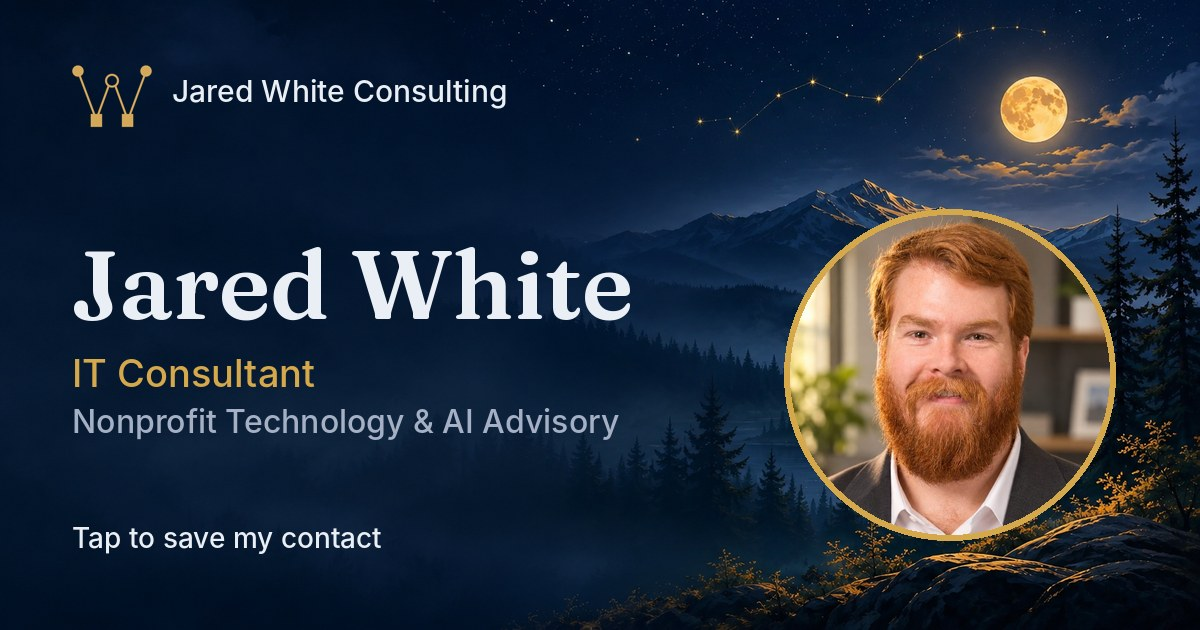
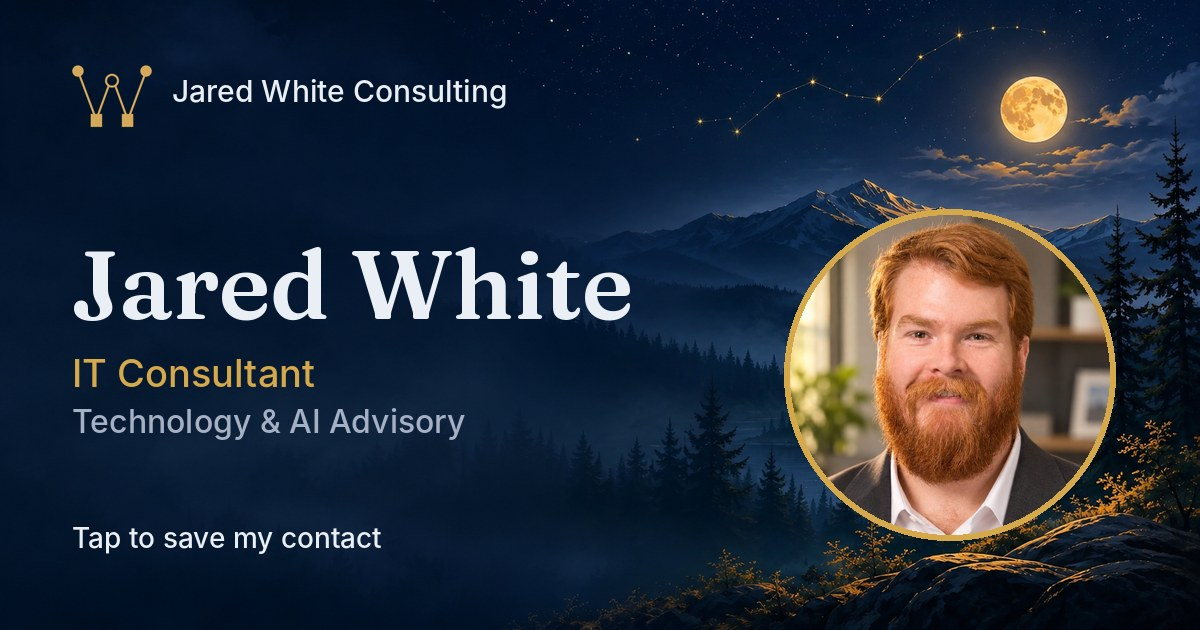
Connect: remove nonprofit from title, vCard and share image
Claude-Session: https://claude.ai/code/session_013tLK7HXDr7Su1BpLbjygVz

Changed region(s): [[0.0617, 0.6333, 0.5242, 0.6937]]

diff --git a/public/index.html b/public/index.html
@@ -9,7 +9,7 @@
 <meta name="theme-color" content="#0B1426">
 <link rel="preconnect" href="https://fonts.googleapis.com"><link rel="preconnect" href="https://fonts.gstatic.com" crossorigin>
 <link href="https://fonts.googleapis.com/css2?family=Fraunces:opsz,wght@9..144,600;9..144,700&family=Inter:wght@400;500;600&display=swap" rel="stylesheet">
-<link rel="stylesheet" href="/assets/site.css?v=26"><meta property="og:type" content="website"><meta property="og:site_name" content="Jared White Consulting"><meta property="og:title" content="Jared White Consulting | AI governance and IT help for small organizations"><meta property="og:description" content="Put AI to work. Stay in control. AI governance, IT packages and free tools for small businesses and nonprofits in Northeast Arkansas."><meta property="og:image" content="https://whiteconsulting.org/assets/img/og-default.jpg"><meta property="og:image:width" content="1200"><meta property="og:image:height" content="630"><meta name="twitter:card" content="summary_large_image"><meta name="twitter:title" content="Jared White Consulting | AI governance and IT help for small organizations"><meta name="twitter:description" content="Put AI to work. Stay in control. AI governance, IT packages and free tools for small businesses and nonprofits in Northeast Arkansas."><meta name="twitter:image" content="https://whiteconsulting.org/assets/img/og-default.jpg"><script type="application/ld+json">{"@context":"https://schema.org","@type":"ProfessionalService","name":"Jared White Consulting","url":"https://whiteconsulting.org","image":"https://whiteconsulting.org/assets/img/og-default.jpg","telephone":"+1-870-215-2008","email":"jared@whiteconsulting.org","description":"AI governance and IT help for small businesses and nonprofits in Northeast Arkansas.","areaServed":{"@type":"AdministrativeArea","name":"Northeast Arkansas"},"founder":{"@type":"Person","name":"Jared White"}}</script>
+<link rel="stylesheet" href="/assets/site.css?v=27"><meta property="og:type" content="website"><meta property="og:site_name" content="Jared White Consulting"><meta property="og:title" content="Jared White Consulting | AI governance and IT help for small organizations"><meta property="og:description" content="Put AI to work. Stay in control. AI governance, IT packages and free tools for small businesses and nonprofits in Northeast Arkansas."><meta property="og:image" content="https://whiteconsulting.org/assets/img/og-default.jpg"><meta property="og:image:width" content="1200"><meta property="og:image:height" content="630"><meta name="twitter:card" content="summary_large_image"><meta name="twitter:title" content="Jared White Consulting | AI governance and IT help for small organizations"><meta name="twitter:description" content="Put AI to work. Stay in control. AI governance, IT packages and free tools for small businesses and nonprofits in Northeast Arkansas."><meta name="twitter:image" content="https://whiteconsulting.org/assets/img/og-default.jpg"><script type="application/ld+json">{"@context":"https://schema.org","@type":"ProfessionalService","name":"Jared White Consulting","url":"https://whiteconsulting.org","image":"https://whiteconsulting.org/assets/img/og-default.jpg","telephone":"+1-870-215-2008","email":"jared@whiteconsulting.org","description":"AI governance and IT help for small businesses and nonprofits in Northeast Arkansas.","areaServed":{"@type":"AdministrativeArea","name":"Northeast Arkansas"},"founder":{"@type":"Person","name":"Jared White"}}</script>
 </head><body>
 <a class="skip" href="#main">Skip to content</a>
 <header class="nav"><div class="wrap">

diff --git a/public/connect/index.html b/public/connect/index.html
@@ -1,9 +1,9 @@
 <!doctype html>
 <html lang="en"><head><meta charset="utf-8"><meta name="viewport" content="width=device-width,initial-scale=1">
-<title>Connect with Jared White</title><meta name="robots" content="noindex, nofollow"><meta property="og:type" content="profile"><meta property="og:title" content="Jared White | IT Consultant, Nonprofit Technology &amp; AI Advisory"><meta property="og:description" content="Tap to save my contact or book a free 20-minute review."><meta property="og:image" content="https://whiteconsulting.org/assets/img/og-connect.jpg"><meta property="og:image:width" content="1200"><meta property="og:image:height" content="630"><meta name="twitter:card" content="summary_large_image"><meta name="twitter:image" content="https://whiteconsulting.org/assets/img/og-connect.jpg">
+<title>Connect with Jared White</title><meta name="robots" content="noindex, nofollow"><meta property="og:type" content="profile"><meta property="og:title" content="Jared White | IT Consultant, Technology &amp; AI Advisory"><meta property="og:description" content="Tap to save my contact or book a free 20-minute review."><meta property="og:image" content="https://whiteconsulting.org/assets/img/og-connect.jpg"><meta property="og:image:width" content="1200"><meta property="og:image:height" content="630"><meta name="twitter:card" content="summary_large_image"><meta name="twitter:image" content="https://whiteconsulting.org/assets/img/og-connect.jpg">
 <link rel="icon" type="image/png" href="/assets/img/favicon.png"><link rel="apple-touch-icon" href="/assets/img/apple-touch-icon.png"><meta name="theme-color" content="#0B1426">
 <link href="https://fonts.googleapis.com/css2?family=Fraunces:opsz,wght@9..144,600;9..144,700&family=Inter:wght@400;500;600&display=swap" rel="stylesheet">
-<link rel="stylesheet" href="/assets/site.css?v=26"></head><body>
+<link rel="stylesheet" href="/assets/site.css?v=27"></head><body>
 <header class="nav"><div class="wrap">
 <a class="brand" href="/"><img src="/assets/img/logo.png" alt="" width="34" height="27"><span>Jared White Consulting</span></a>
 <button class="burger" id="burger" aria-expanded="false" aria-controls="menu">Menu</button>
@@ -12,7 +12,7 @@
 <main class="cx"><div class="top">
 <img src="/assets/img/headshot.jpg" alt="Jared White" width="150" height="150">
 <div class="org">Jared White Consulting</div><h1>Jared White</h1>
-<div class="t">IT Consultant | Nonprofit Technology &amp; AI Advisory</div><hr>
+<div class="t">IT Consultant | Technology &amp; AI Advisory</div><hr>
 <p class="muted" style="max-width:22em;margin:0 auto">Plain-English IT and AI help for small businesses and nonprofits in Northeast Arkansas.</p>
 <a class="btn" href="/jared-white.vcf" download="Jared White.vcf">Save my contact</a></div>
 <div class="row"><a href="tel:+18702152008">Call</a><a href="sms:+18702152008">Text</a></div>

diff --git a/public/ai/index.html b/public/ai/index.html
@@ -9,7 +9,7 @@
 <meta name="theme-color" content="#0B1426">
 <link rel="preconnect" href="https://fonts.googleapis.com"><link rel="preconnect" href="https://fonts.gstatic.com" crossorigin>
 <link href="https://fonts.googleapis.com/css2?family=Fraunces:opsz,wght@9..144,600;9..144,700&family=Inter:wght@400;500;600&display=swap" rel="stylesheet">
-<link rel="stylesheet" href="/assets/site.css?v=26"><meta property="og:type" content="website"><meta property="og:site_name" content="Jared White Consulting"><meta property="og:title" content="AI governance for small organizations | Jared White Consulting"><meta property="og:description" content="Your staff already use AI. Learn what a basic AI policy covers and how Jared White Consulting helps small businesses and nonprofits in Northeast Arkansas."><meta property="og:image" content="https://whiteconsulting.org/assets/img/og-default.jpg"><meta property="og:image:width" content="1200"><meta property="og:image:height" content="630"><meta name="twitter:card" content="summary_large_image"><meta name="twitter:title" content="AI governance for small organizations | Jared White Consulting"><meta name="twitter:description" content="Your staff already use AI. Learn what a basic AI policy covers and how Jared White Consulting helps small businesses and nonprofits in Northeast Arkansas."><meta name="twitter:image" content="https://whiteconsulting.org/assets/img/og-default.jpg">
+<link rel="stylesheet" href="/assets/site.css?v=27"><meta property="og:type" content="website"><meta property="og:site_name" content="Jared White Consulting"><meta property="og:title" content="AI governance for small organizations | Jared White Consulting"><meta property="og:description" content="Your staff already use AI. Learn what a basic AI policy covers and how Jared White Consulting helps small businesses and nonprofits in Northeast Arkansas."><meta property="og:image" content="https://whiteconsulting.org/assets/img/og-default.jpg"><meta property="og:image:width" content="1200"><meta property="og:image:height" content="630"><meta name="twitter:card" content="summary_large_image"><meta name="twitter:title" content="AI governance for small organizations | Jared White Consulting"><meta name="twitter:description" content="Your staff already use AI. Learn what a basic AI policy covers and how Jared White Consulting helps small businesses and nonprofits in Northeast Arkansas."><meta name="twitter:image" content="https://whiteconsulting.org/assets/img/og-default.jpg">
 </head><body>
 <a class="skip" href="#main">Skip to content</a>
 <header class="nav"><div class="wrap">

diff --git a/public/nonprofits/index.html b/public/nonprofits/index.html
@@ -9,7 +9,7 @@
 <meta name="theme-color" content="#0B1426">
 <link rel="preconnect" href="https://fonts.googleapis.com"><link rel="preconnect" href="https://fonts.gstatic.com" crossorigin>
 <link href="https://fonts.googleapis.com/css2?family=Fraunces:opsz,wght@9..144,600;9..144,700&family=Inter:wght@400;500;600&display=swap" rel="stylesheet">
-<link rel="stylesheet" href="/assets/site.css?v=26"><meta property="og:type" content="website"><meta property="og:site_name" content="Jared White Consulting"><meta property="og:title" content="IT help for nonprofits | Jared White Consulting"><meta property="og:description" content="IT consulting for small nonprofits in Northeast Arkansas. Past work with Habitat for Humanity of Greater Jonesboro and Agape House of Paragould."><meta property="og:image" content="https://whiteconsulting.org/assets/img/og-default.jpg"><meta property="og:image:width" content="1200"><meta property="og:image:height" content="630"><meta name="twitter:card" content="summary_large_image"><meta name="twitter:title" content="IT help for nonprofits | Jared White Consulting"><meta name="twitter:description" content="IT consulting for small nonprofits in Northeast Arkansas. Past work with Habitat for Humanity of Greater Jonesboro and Agape House of Paragould."><meta name="twitter:image" content="https://whiteconsulting.org/assets/img/og-default.jpg">
+<link rel="stylesheet" href="/assets/site.css?v=27"><meta property="og:type" content="website"><meta property="og:site_name" content="Jared White Consulting"><meta property="og:title" content="IT help for nonprofits | Jared White Consulting"><meta property="og:description" content="IT consulting for small nonprofits in Northeast Arkansas. Past work with Habitat for Humanity of Greater Jonesboro and Agape House of Paragould."><meta property="og:image" content="https://whiteconsulting.org/assets/img/og-default.jpg"><meta property="og:image:width" content="1200"><meta property="og:image:height" content="630"><meta name="twitter:card" content="summary_large_image"><meta name="twitter:title" content="IT help for nonprofits | Jared White Consulting"><meta name="twitter:description" content="IT consulting for small nonprofits in Northeast Arkansas. Past work with Habitat for Humanity of Greater Jonesboro and Agape House of Paragould."><meta name="twitter:image" content="https://whiteconsulting.org/assets/img/og-default.jpg">
 </head><body>
 <a class="skip" href="#main">Skip to content</a>
 <header class="nav"><div class="wrap">

diff --git a/public/services/index.html b/public/services/index.html
@@ -9,7 +9,7 @@
 <meta name="theme-color" content="#0B1426">
 <link rel="preconnect" href="https://fonts.googleapis.com"><link rel="preconnect" href="https://fonts.gstatic.com" crossorigin>
 <link href="https://fonts.googleapis.com/css2?family=Fraunces:opsz,wght@9..144,600;9..144,700&family=Inter:wght@400;500;600&display=swap" rel="stylesheet">
-<link rel="stylesheet" href="/assets/site.css?v=26"><meta property="og:type" content="website"><meta property="og:site_name" content="Jared White Consulting"><meta property="og:title" content="IT services and packages | Jared White Consulting"><meta property="og:description" content="Business Health Check ($495) and Business Efficiency Upgrade ($2,500). Fixed-price IT help for small businesses and nonprofits."><meta property="og:image" content="https://whiteconsulting.org/assets/img/og-default.jpg"><meta property="og:image:width" content="1200"><meta property="og:image:height" content="630"><meta name="twitter:card" content="summary_large_image"><meta name="twitter:title" content="IT services and packages | Jared White Consulting"><meta name="twitter:description" content="Business Health Check ($495) and Business Efficiency Upgrade ($2,500). Fixed-price IT help for small businesses and nonprofits."><meta name="twitter:image" content="https://whiteconsulting.org/assets/img/og-default.jpg">
+<link rel="stylesheet" href="/assets/site.css?v=27"><meta property="og:type" content="website"><meta property="og:site_name" content="Jared White Consulting"><meta property="og:title" content="IT services and packages | Jared White Consulting"><meta property="og:description" content="Business Health Check ($495) and Business Efficiency Upgrade ($2,500). Fixed-price IT help for small businesses and nonprofits."><meta property="og:image" content="https://whiteconsulting.org/assets/img/og-default.jpg"><meta property="og:image:width" content="1200"><meta property="og:image:height" content="630"><meta name="twitter:card" content="summary_large_image"><meta name="twitter:title" content="IT services and packages | Jared White Consulting"><meta name="twitter:description" content="Business Health Check ($495) and Business Efficiency Upgrade ($2,500). Fixed-price IT help for small businesses and nonprofits."><meta name="twitter:image" content="https://whiteconsulting.org/assets/img/og-default.jpg">
 </head><body>
 <a class="skip" href="#main">Skip to content</a>
 <header class="nav"><div class="wrap">

diff --git a/public/privacy/index.html b/public/privacy/index.html
@@ -9,7 +9,7 @@
 <meta name="theme-color" content="#0B1426">
 <link rel="preconnect" href="https://fonts.googleapis.com"><link rel="preconnect" href="https://fonts.gstatic.com" crossorigin>
 <link href="https://fonts.googleapis.com/css2?family=Fraunces:opsz,wght@9..144,600;9..144,700&family=Inter:wght@400;500;600&display=swap" rel="stylesheet">
-<link rel="stylesheet" href="/assets/site.css?v=26"><meta property="og:type" content="website"><meta property="og:site_name" content="Jared White Consulting"><meta property="og:title" content="Privacy | Jared White Consulting"><meta property="og:description" content="How Jared White Consulting collects, uses and stores your information."><meta property="og:image" content="https://whiteconsulting.org/assets/img/og-default.jpg"><meta property="og:image:width" content="1200"><meta property="og:image:height" content="630"><meta name="twitter:card" content="summary_large_image"><meta name="twitter:title" content="Privacy | Jared White Consulting"><meta name="twitter:description" content="How Jared White Consulting collects, uses and stores your information."><meta name="twitter:image" content="https://whiteconsulting.org/assets/img/og-default.jpg">
+<link rel="stylesheet" href="/assets/site.css?v=27"><meta property="og:type" content="website"><meta property="og:site_name" content="Jared White Consulting"><meta property="og:title" content="Privacy | Jared White Consulting"><meta property="og:description" content="How Jared White Consulting collects, uses and stores your information."><meta property="og:image" content="https://whiteconsulting.org/assets/img/og-default.jpg"><meta property="og:image:width" content="1200"><meta property="og:image:height" content="630"><meta name="twitter:card" content="summary_large_image"><meta name="twitter:title" content="Privacy | Jared White Consulting"><meta name="twitter:description" content="How Jared White Consulting collects, uses and stores your information."><meta name="twitter:image" content="https://whiteconsulting.org/assets/img/og-default.jpg">
 </head><body>
 <a class="skip" href="#main">Skip to content</a>
 <header class="nav"><div class="wrap">

diff --git a/public/404.html b/public/404.html
@@ -9,7 +9,7 @@
 <meta name="theme-color" content="#0B1426">
 <link rel="preconnect" href="https://fonts.googleapis.com"><link rel="preconnect" href="https://fonts.gstatic.com" crossorigin>
 <link href="https://fonts.googleapis.com/css2?family=Fraunces:opsz,wght@9..144,600;9..144,700&family=Inter:wght@400;500;600&display=swap" rel="stylesheet">
-<link rel="stylesheet" href="/assets/site.css?v=26"><meta property="og:type" content="website"><meta property="og:site_name" content="Jared White Consulting"><meta property="og:title" content="Page not found | Jared White Consulting"><meta property="og:description" content="The page you were looking for was not found."><meta property="og:image" content="https://whiteconsulting.org/assets/img/og-default.jpg"><meta property="og:image:width" content="1200"><meta property="og:image:height" content="630"><meta name="twitter:card" content="summary_large_image"><meta name="twitter:title" content="Page not found | Jared White Consulting"><meta name="twitter:description" content="The page you were looking for was not found."><meta name="twitter:image" content="https://whiteconsulting.org/assets/img/og-default.jpg">
+<link rel="stylesheet" href="/assets/site.css?v=27"><meta property="og:type" content="website"><meta property="og:site_name" content="Jared White Consulting"><meta property="og:title" content="Page not found | Jared White Consulting"><meta property="og:description" content="The page you were looking for was not found."><meta property="og:image" content="https://whiteconsulting.org/assets/img/og-default.jpg"><meta property="og:image:width" content="1200"><meta property="og:image:height" content="630"><meta name="twitter:card" content="summary_large_image"><meta name="twitter:title" content="Page not found | Jared White Consulting"><meta name="twitter:description" content="The page you were looking for was not found."><meta name="twitter:image" content="https://whiteconsulting.org/assets/img/og-default.jpg">
 </head><body>
 <a class="skip" href="#main">Skip to content</a>
 <header class="nav"><div class="wrap">
